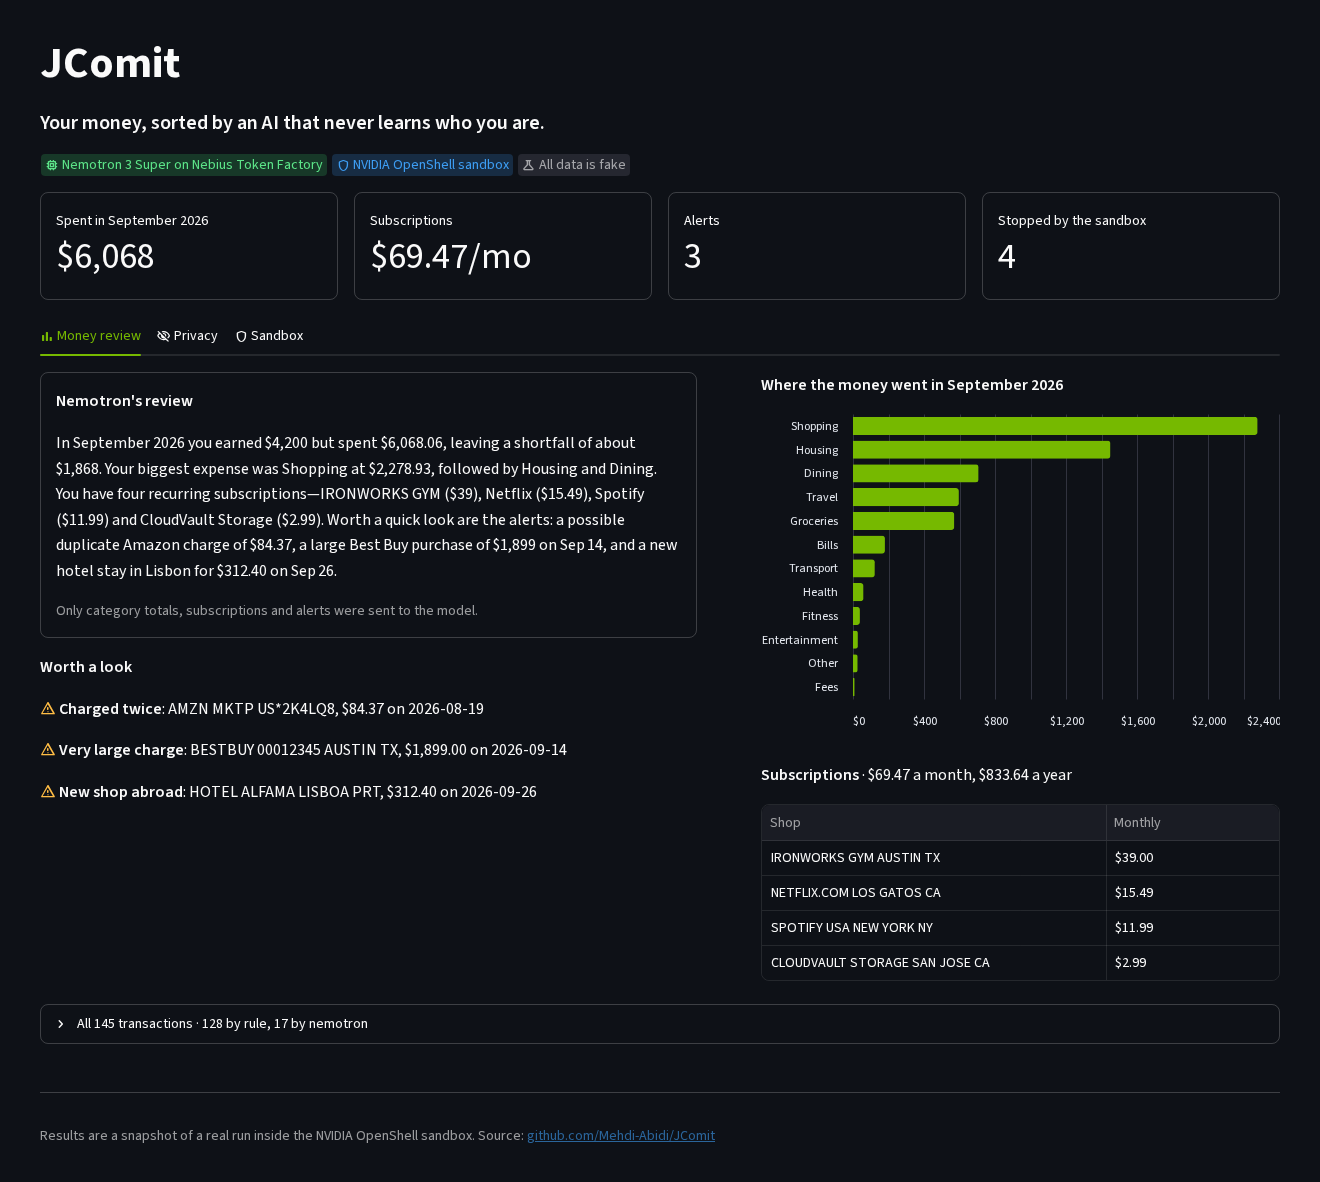
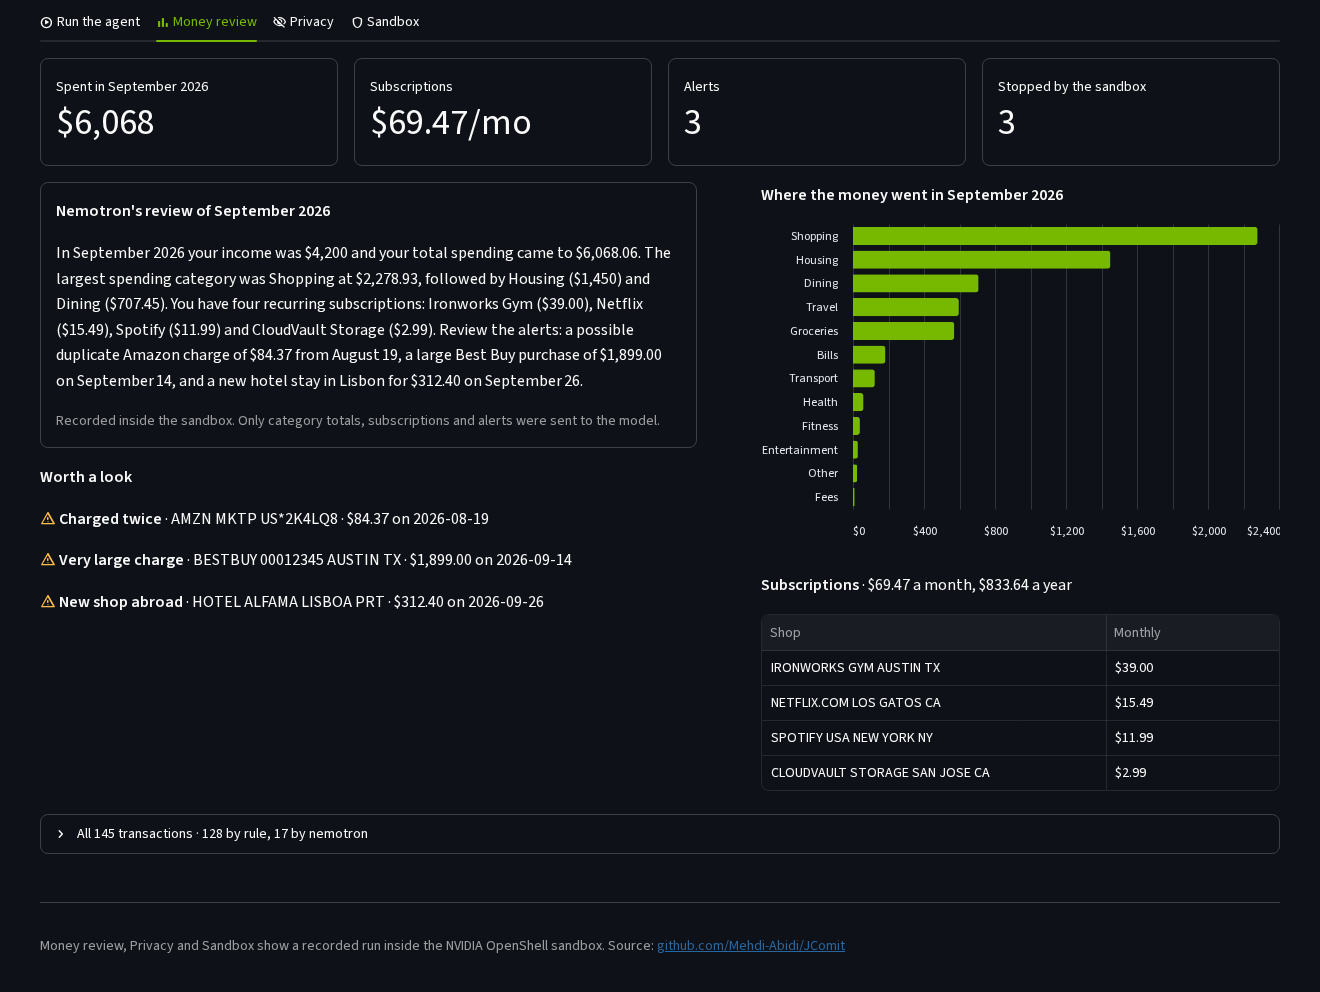
Refresh the README screenshots for the new page layout.

diff --git a/README.md b/README.md
@@ -117,6 +117,10 @@ The policy is generated from the skills themselves. Each skill in [src/jcomit/sk
 
 ## Screenshots
 
+**Run the agent.** A live run on the sample statement: what was hidden, how each transaction was decided, the model calls and tokens used, and a fresh review from Nemotron.
+
+![Run the agent tab](docs/screenshots/run-the-agent.png)
+
 **Money review.** Nemotron's monthly review, the three alerts, spending by category and the subscriptions it found.
 
 ![Money review tab](docs/screenshots/money-review.png)
